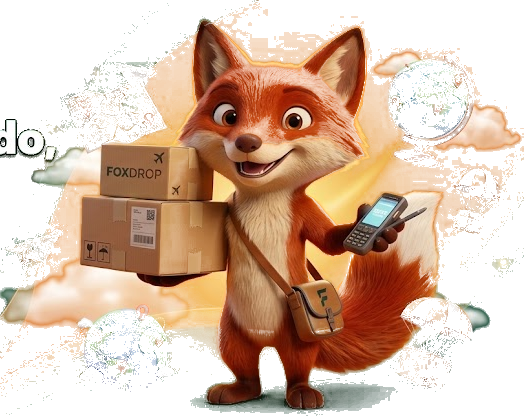
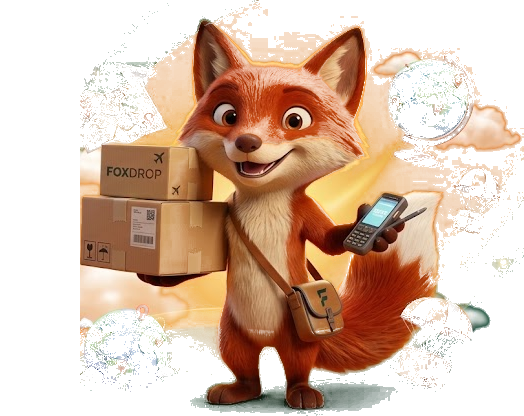
fix: remove leftover ghost text fragment from fox courier layer and adjust typography wrapping

Changed region(s): [[0.0, 0.2188, 0.1527, 0.9375], [0.0, 0.8125, 0.0305, 0.8438]]

diff --git a/src/app/tienda/page.tsx b/src/app/tienda/page.tsx
@@ -1991,22 +1991,22 @@ export default function TiendaFoxDrop() {
                     />
 
                     {/* CAPA 2: CONTENIDO TIPOGRÁFICO NATIVO Y NÍTIDO CON GREETING PERSONALIZADO */}
-                    <div className="relative z-10 w-[50%] p-8 lg:p-12 xl:p-14 flex flex-col justify-between">
-                      <div className="space-y-3 lg:space-y-4">
-                        <span className="inline-block text-xs lg:text-sm font-black tracking-widest text-[#E3B888] uppercase drop-shadow-xs">
+                    <div className="relative z-10 w-[48%] lg:w-[47%] p-6 lg:p-10 xl:p-12 flex flex-col justify-between">
+                      <div className="space-y-2 lg:space-y-3">
+                        <span className="inline-block text-xs lg:text-[13px] font-black tracking-widest text-[#E3B888] uppercase drop-shadow-xs">
                           {currentSlide.subtitle || 'TU ATAJO AL MUNDO'}
                         </span>
-                        <h1 className="text-2xl lg:text-4xl xl:text-[44px] font-black text-white leading-[1.12] drop-shadow-sm max-w-xl">
+                        <h1 className="text-xl sm:text-2xl lg:text-[34px] xl:text-[38px] font-black text-white leading-[1.15] drop-shadow-sm max-w-md">
                           {isDefaultSlide && user?.name 
                             ? `¡Hola, ${user.name.split(' ')[0]}! El mundo, directo a tu puerta.` 
                             : currentSlide.title}
                         </h1>
-                        <p className="text-sm lg:text-base text-emerald-100/90 leading-relaxed max-w-lg font-medium drop-shadow-xs">
+                        <p className="text-xs sm:text-sm lg:text-[15px] text-emerald-100/90 leading-snug max-w-sm font-medium drop-shadow-xs">
                           Descubre tesoros mundiales con envío rápido y calidad garantizada.
                         </p>
                       </div>
 
-                      <div className="pt-4 lg:pt-6">
+                      <div className="pt-3 lg:pt-5">
                         <button
                           onClick={() => {
                             setSelectedCategory(currentSlide.cta_category || 'Todas');
@@ -2014,10 +2014,10 @@ export default function TiendaFoxDrop() {
                             const el = document.getElementById('catalog-section');
                             el?.scrollIntoView({ behavior: 'smooth' });
                           }}
-                          className="bg-gradient-to-r from-[#FF7A1A] to-[#E65200] hover:from-[#FF8A2E] hover:to-[#F05E00] text-white font-black px-7 py-3 rounded-full text-sm lg:text-base shadow-[0_6px_24px_rgba(230,82,0,0.55)] border border-amber-200/40 transition transform hover:scale-105 active:scale-95 flex items-center gap-2 cursor-pointer w-fit group"
+                          className="bg-gradient-to-r from-[#FF7A1A] to-[#E65200] hover:from-[#FF8A2E] hover:to-[#F05E00] text-white font-black px-6 py-2.5 rounded-full text-xs sm:text-sm shadow-[0_6px_24px_rgba(230,82,0,0.55)] border border-amber-200/40 transition transform hover:scale-105 active:scale-95 flex items-center gap-2 cursor-pointer w-fit group"
                         >
                           <span>{currentSlide.cta_text || 'Ver Catálogo Completo'}</span>
-                          <ArrowRight className="w-4 h-4 transition-transform group-hover:translate-x-1" />
+                          <ArrowRight className="w-3.5 h-3.5 transition-transform group-hover:translate-x-1" />
                         </button>
                       </div>
                     </div>
